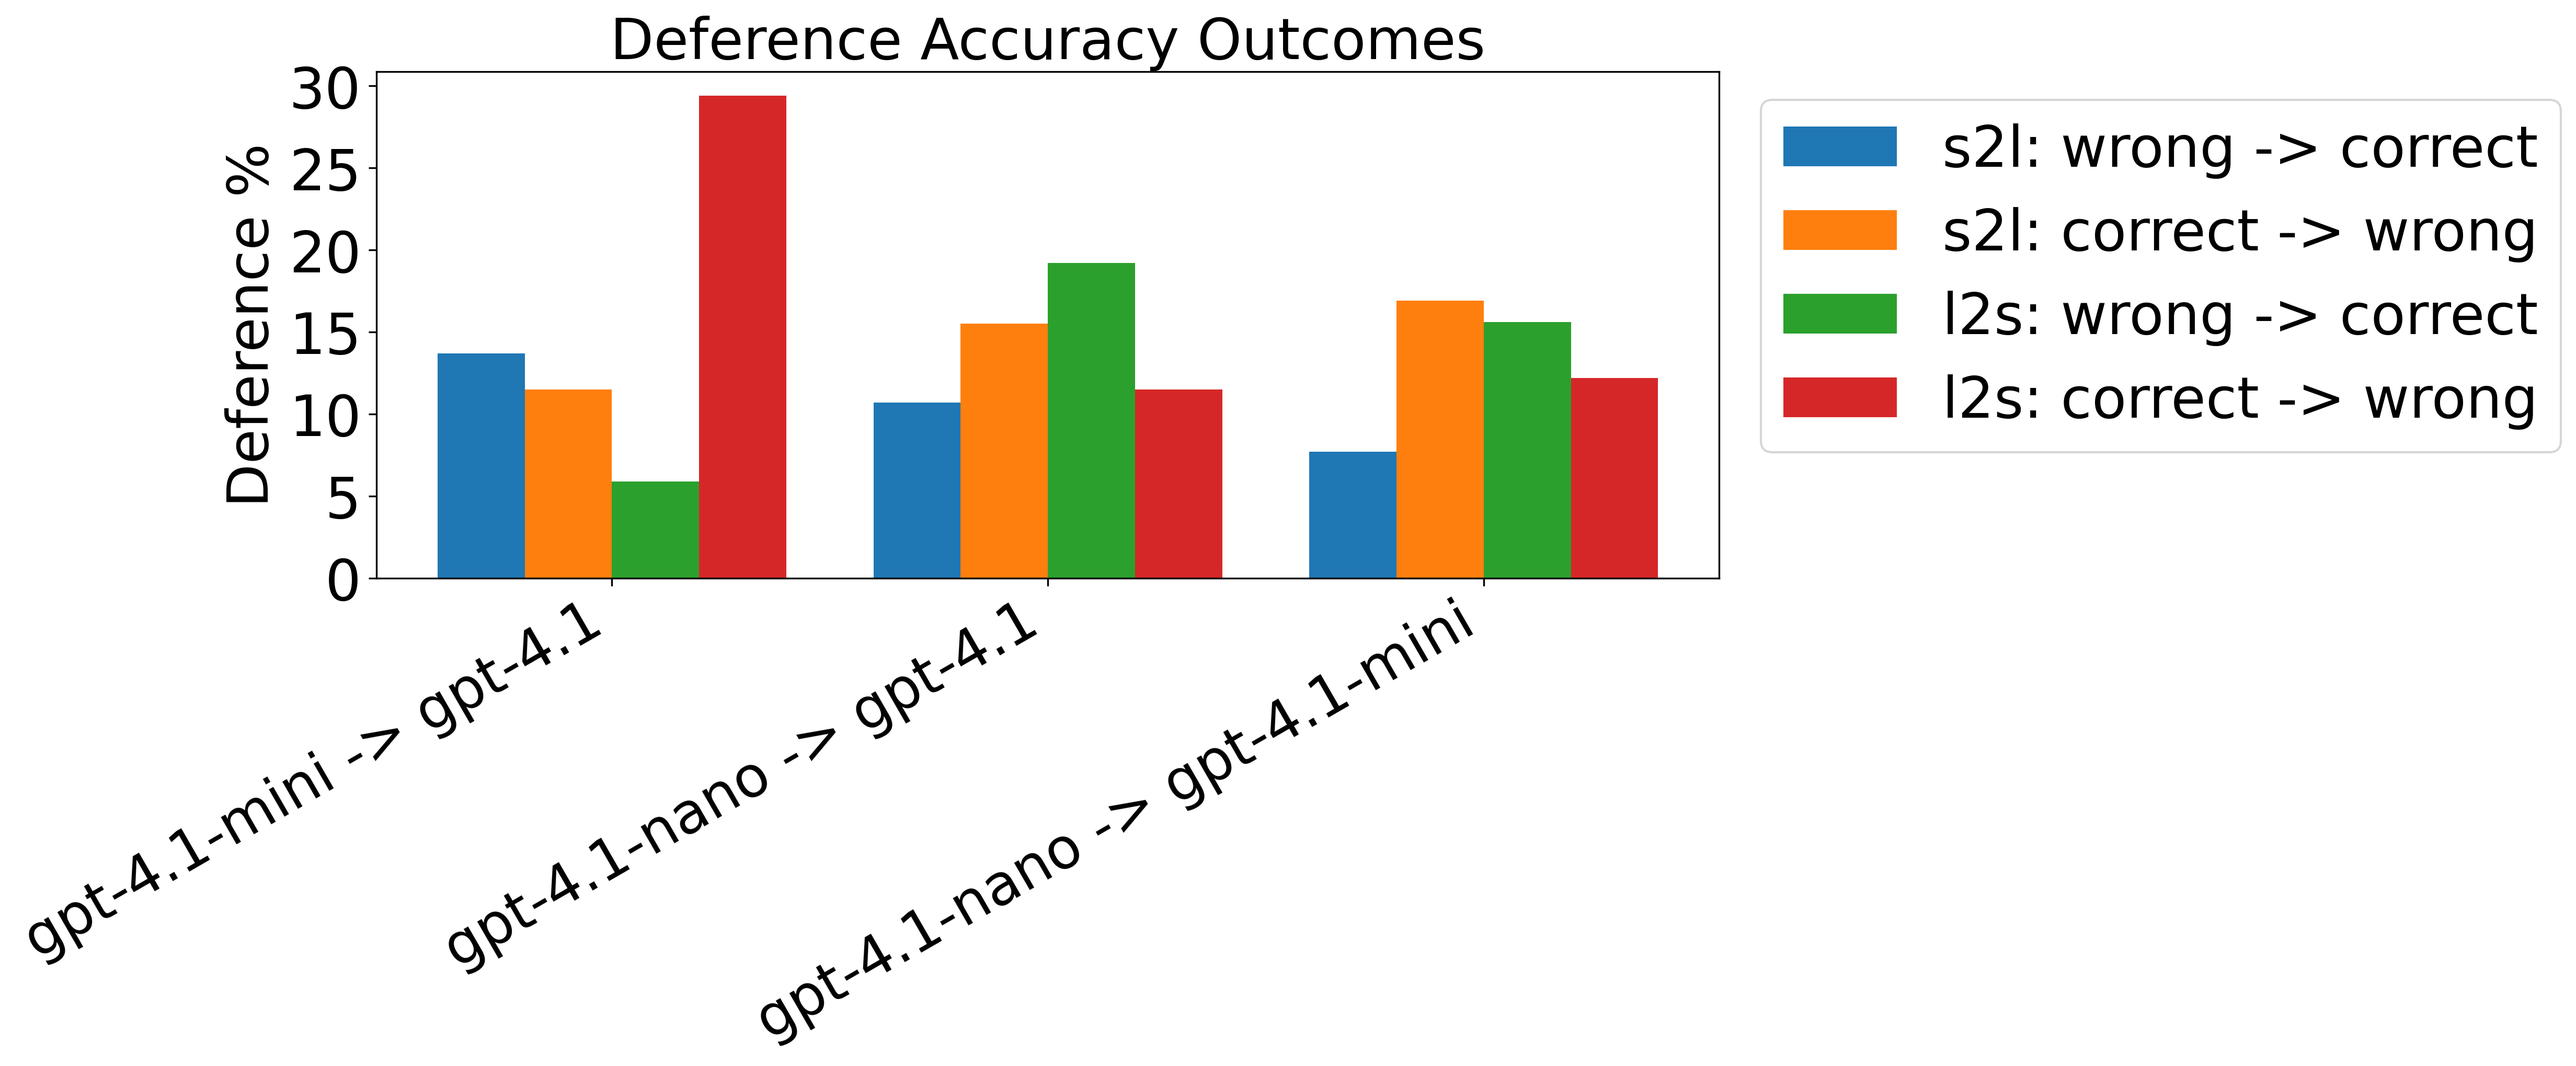
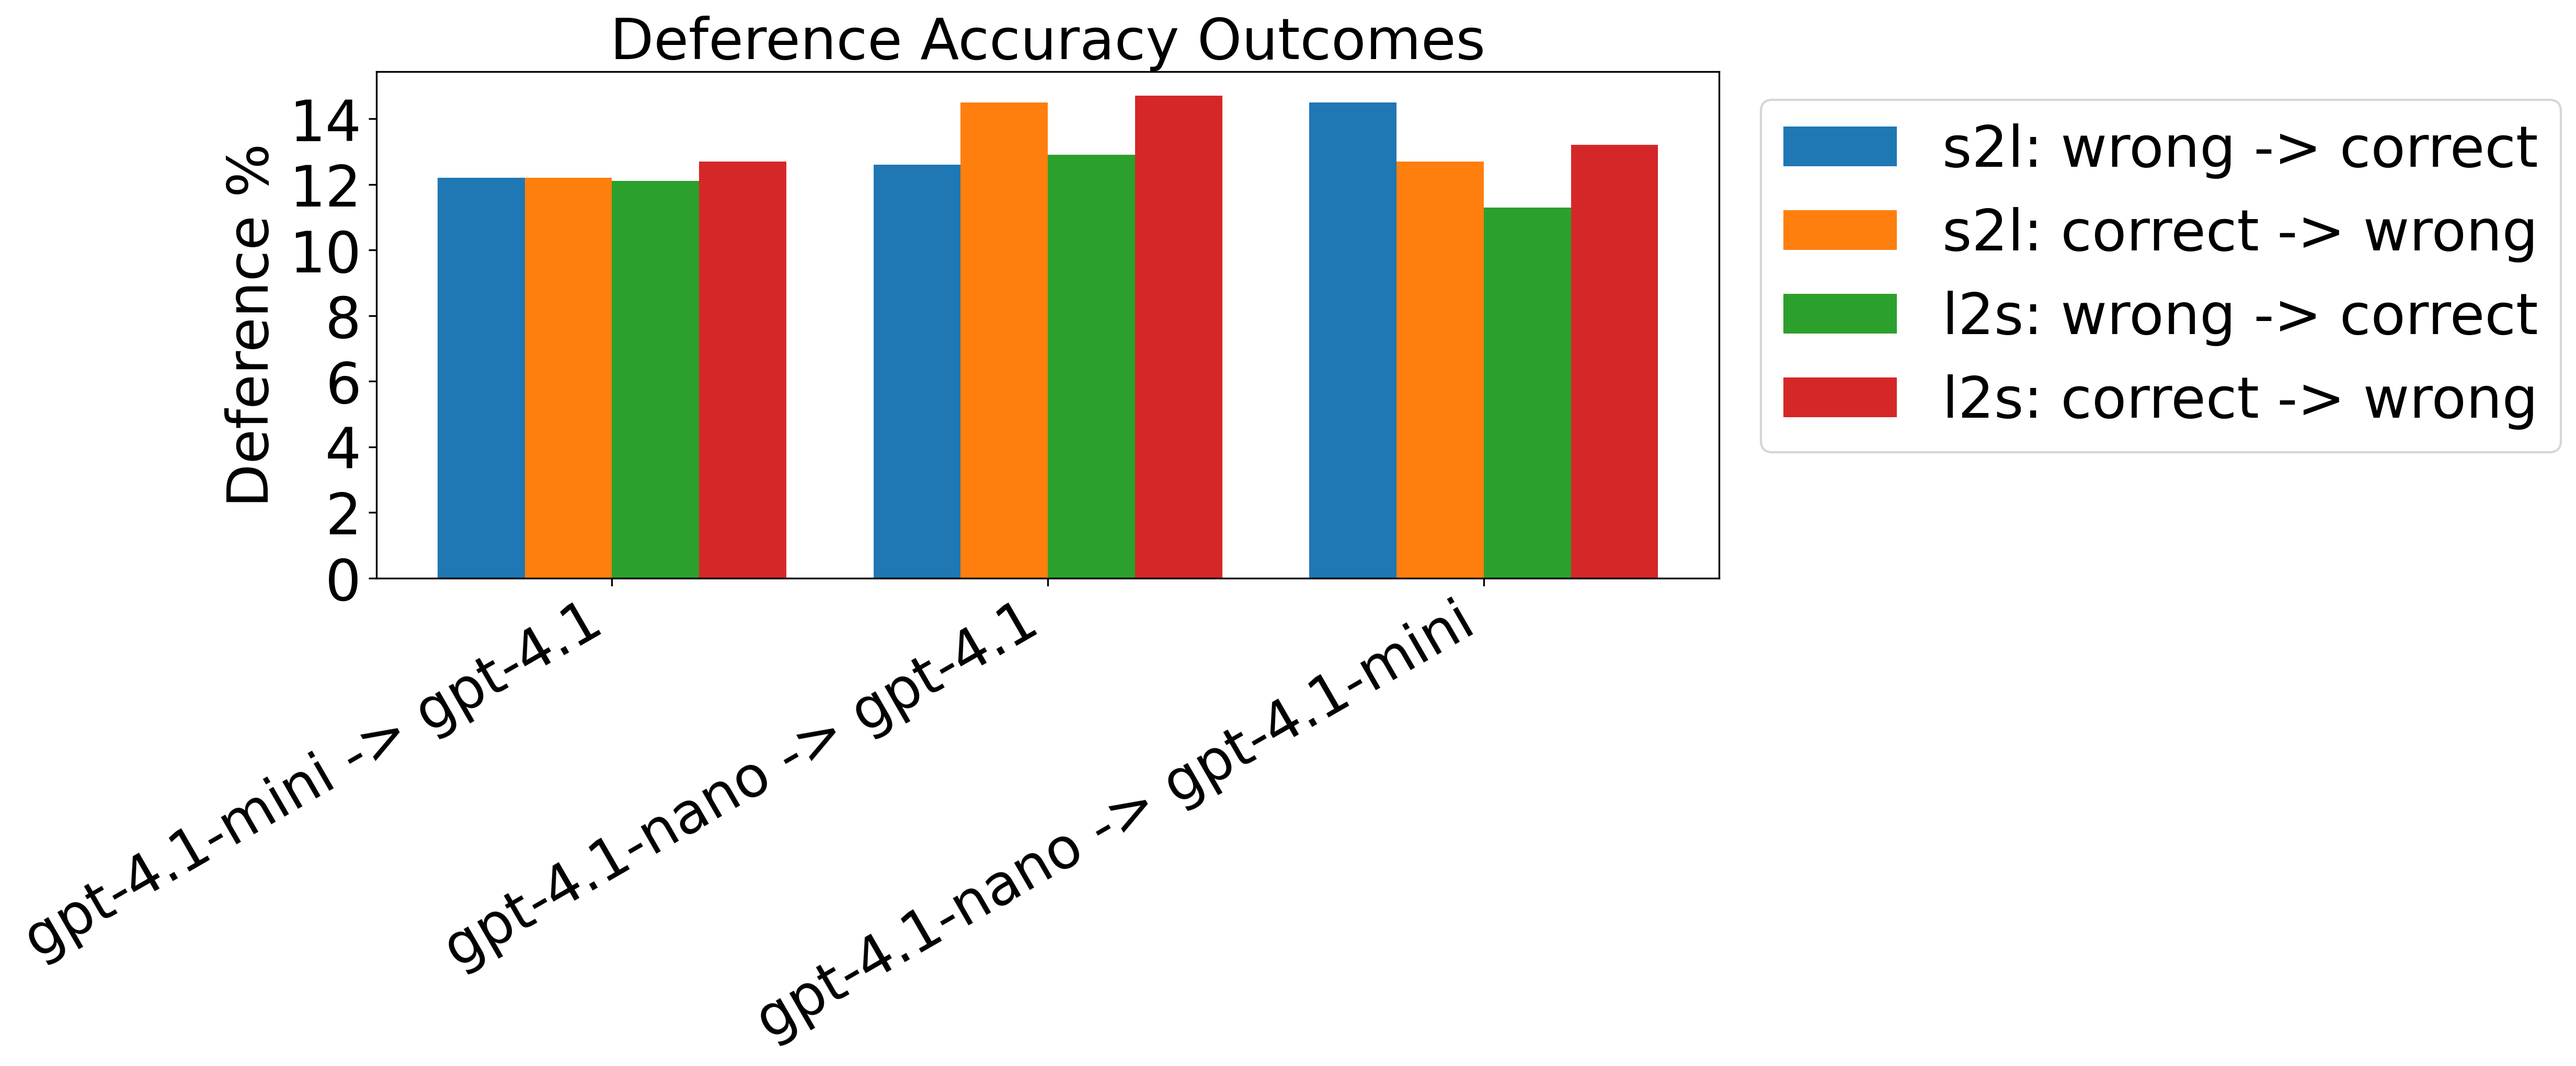
Added HLE model def accuracy plots

Changed region(s): [[0.3416, 0.0927, 0.6521, 0.4326], [0.0932, 0.0618, 0.3105, 0.4635], [0.0932, 0.2163, 0.1242, 0.2472]]

diff --git a/Analysis_files/HLE_accuracy_plot.py b/Analysis_files/HLE_accuracy_plot.py
@@ -1,6 +1,7 @@
 import json
 import os
 import matplotlib.pyplot as plt
+import numpy as np
 
 OUTPUT_ROOT = "new_analysis_outputs/HLE"
 FIGURES_ROOT = "new_figures/HLE"
@@ -55,6 +56,38 @@ def plot_rounds_accuracy(output_dir, out_path):
     plt.savefig(out_path, dpi=300)
     plt.close()
     print(f"  [accuracy]            -> {out_path}")
+
+
+def plot_deference_accuracy_outcomes(output_dir, out_path):
+    data = load_json(os.path.join(output_dir, "hle_deference_accuracy.json"))
+    if not data:
+        return
+
+    labels = sorted(data.keys())
+    s2l_w2c = [data[k].get("s2l_w2c_pct", 0) for k in labels]
+    s2l_c2w = [data[k].get("s2l_c2w_pct", 0) for k in labels]
+    l2s_w2c = [data[k].get("l2s_w2c_pct", 0) for k in labels]
+    l2s_c2w = [data[k].get("l2s_c2w_pct", 0) for k in labels]
+
+    x = np.arange(len(labels))
+    width = 0.2
+
+    plt.figure(figsize=(16, 7))
+    plt.bar(x - 1.5 * width, s2l_w2c, width, label="s2l: wrong -> correct")
+    plt.bar(x - 0.5 * width, s2l_c2w, width, label="s2l: correct -> wrong")
+    plt.bar(x + 0.5 * width, l2s_w2c, width, label="l2s: wrong -> correct")
+    plt.bar(x + 1.5 * width, l2s_c2w, width, label="l2s: correct -> wrong")
+    plt.xticks(x, labels, rotation=30, ha="right", fontsize=26)
+    plt.yticks(fontsize=26)
+    plt.ylabel("Deference %", fontsize=26)
+    plt.title("Deference Accuracy Outcomes", fontsize=26)
+    plt.legend(fontsize=26, loc='upper left', bbox_to_anchor=(1.01, 1))
+    plt.tight_layout(pad=1.5)
+
+    os.makedirs(os.path.dirname(out_path), exist_ok=True)
+    plt.savefig(out_path, dpi=300, bbox_inches='tight')
+    plt.close()
+    print(f"  [deference accuracy]  -> {out_path}")
 
 
 def load_accuracy_values(output_dir):
@@ -149,9 +182,10 @@ def plot_combined_rotated_variants(parent_output_dir, out_path):
 # ── Main ──────────────────────────────────────────────────────────────────────
 
 if __name__ == "__main__":
-    dirs_accuracy = sorted(find_dirs_with(OUTPUT_ROOT, "hle_accuracy.json"))
+    dirs_accuracy   = sorted(find_dirs_with(OUTPUT_ROOT, "hle_accuracy.json"))
+    dirs_deference  = sorted(find_dirs_with(OUTPUT_ROOT, "hle_deference_accuracy.json"))
 
-    print(f"Found {len(dirs_accuracy)} accuracy director{'y' if len(dirs_accuracy) == 1 else 'ies'}.\n")
+    print(f"Found {len(dirs_accuracy)} accuracy, {len(dirs_deference)} deference director{'y' if len(dirs_deference) == 1 else 'ies'}.\n")
 
     for output_dir in dirs_accuracy:
         fig_dir = output_to_figures(output_dir)
@@ -159,6 +193,14 @@ if __name__ == "__main__":
         plot_rounds_accuracy(
             output_dir,
             os.path.join(fig_dir, "rounds_accuracy.png"),
+        )
+
+    for output_dir in dirs_deference:
+        fig_dir = output_to_figures(output_dir)
+        print(f"Plotting deference accuracy: {output_dir}")
+        plot_deference_accuracy_outcomes(
+            output_dir,
+            os.path.join(fig_dir, "deference_accuracy_outcomes.png"),
         )
 
     combined_parents = sorted(find_combined_parents(OUTPUT_ROOT))
